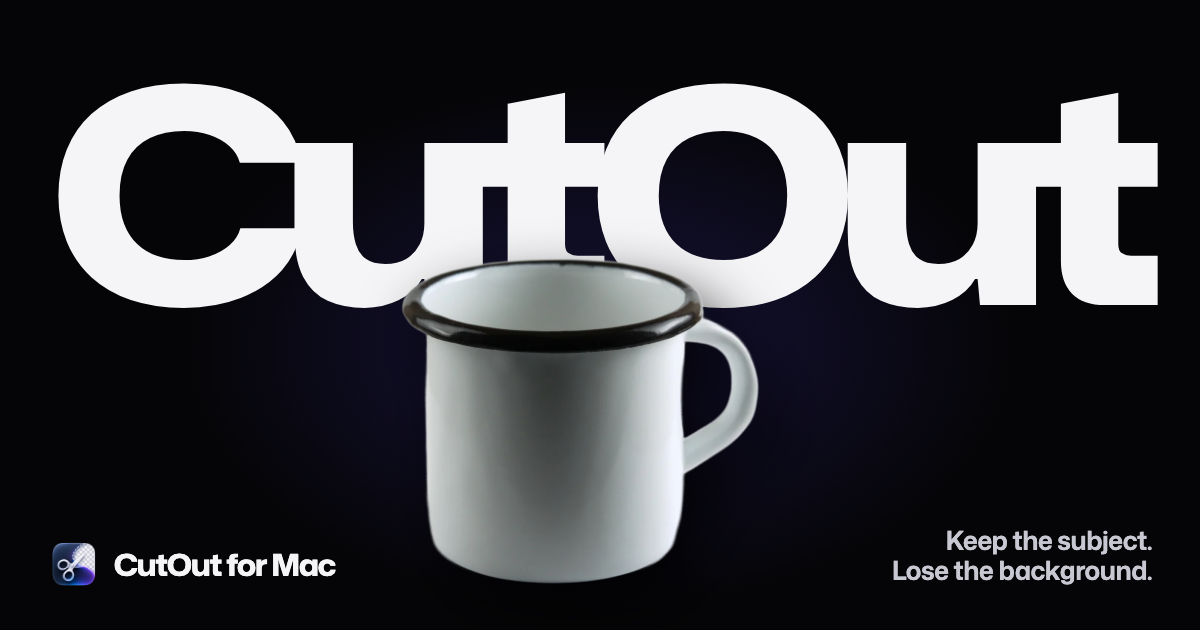
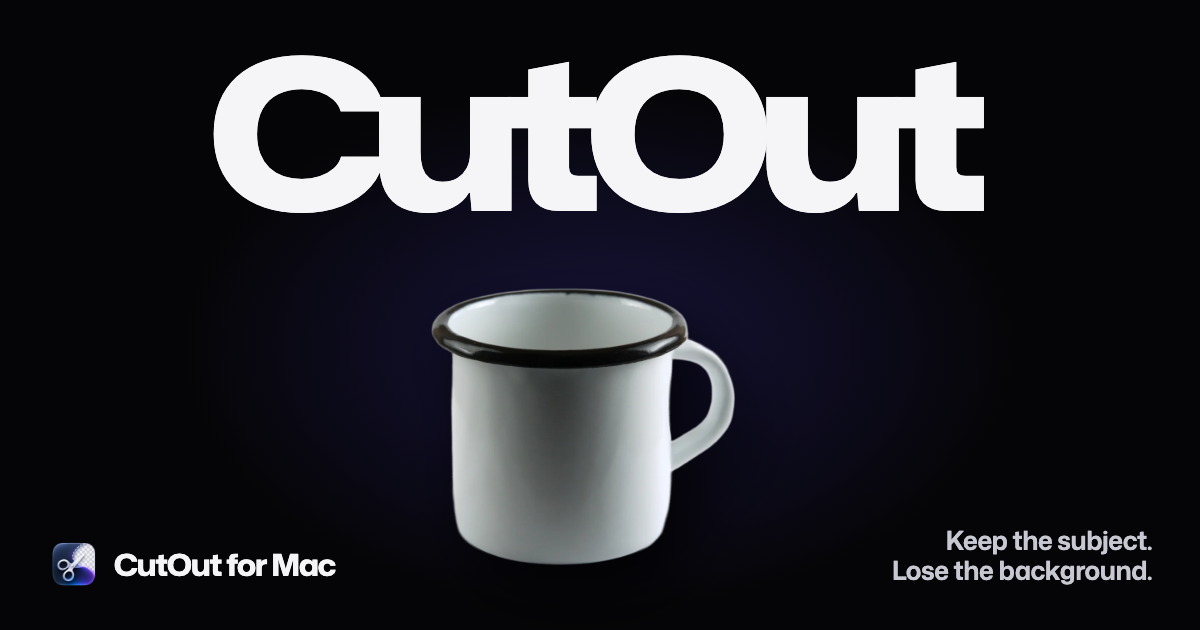
Hero: the CutOut wordmark on top, the mug animation below it
At the owner's request the giant wordmark no longer sits behind the mug. It
now stands alone at the top of the hero, solid white and sized to the content
column (at most 26svh). The photo frame takes the height that is left below
it. The tight tracking is optically re-centred. The share image uses the same
layout, and the hero test now checks that the word sits fully above the
frame. wordAt/--word-y are gone from the asset script.

Changed region(s): [[0.0308, 0.0905, 0.9867, 0.9349]]

diff --git a/tests/e2e/site.spec.ts b/tests/e2e/site.spec.ts
@@ -148,14 +148,18 @@ test.describe('before/after comparison', () => {
 });
 
 test.describe('hero', () => {
-  test('the wordmark sits between the photo and the cutout', async ({ page }) => {
+  test('the wordmark sits above the photo, fully visible and not overlapping it', async ({ page }) => {
     await page.goto('');
-    const z = await page.evaluate(() => {
-      const order = ['.hero__poster', '.hero__word', '.hero__subject'].map((s) => document.querySelector(s)!);
-      return order.map((el) => [...el.parentElement!.children].indexOf(el));
-    });
+    const word = (await page.locator('.hero__word').boundingBox())!;
+    const stage = (await page.locator('[data-stage]').boundingBox())!;
+    const vw = page.viewportSize()!.width;
+    expect(word.y + word.height).toBeLessThanOrEqual(stage.y + 1);
+    expect(word.y).toBeGreaterThanOrEqual(0);
+    expect(word.x).toBeGreaterThanOrEqual(0);
+    expect(word.x + word.width).toBeLessThanOrEqual(vw);
+    // The cutout still sits in front of the photo inside the frame.
+    const z = await page.evaluate(() => ['.hero__poster', '.hero__subject'].map((s) => { const el = document.querySelector(s)!; return [...el.parentElement!.children].indexOf(el); }));
     expect(z[0]).toBeLessThan(z[1]);
-    expect(z[1]).toBeLessThan(z[2]);
   });
 
   test('the primary call to action is visible in the first viewport', async ({ page }) => {

diff --git a/docs/DESIGN.md b/docs/DESIGN.md
@@ -35,6 +35,10 @@ now appears only as the *Gaps* sample. The golden retriever puppy leads the resu
 is a puppy lying on a plain carpet, chosen so that every leg is visible: the first choice stood
 in grass that hid part of a hind leg.
 
+**Revision, 5 November 2026.** The owner liked the wordmark but not having it behind the mug.
+The giant **CutOut** now stands alone at the top of the hero, solid white with no blend, and the
+mug animation plays in the frame below it. The same wordmark leads the share image.
+
 ## Art direction
 
 * **A black stage, one subject at a time.** Near-black (`--bg`) everywhere, so cutouts float and
@@ -52,7 +56,7 @@ in grass that hid part of a hind leg.
 
 | Section | What happens | Scroll length |
 |---|---|---|
-| Hero | Mug photo on the stage. The wordmark sits behind the mug, which covers only the lower part of the letters, so *CutOut* stays readable (difference blend). Scroll: marching ants trace the outline (outer edge plus the handle's hole), the subject lifts with a shadow, the print curls back from its corner (white paper underside) and is pulled off the screen, leaving the subject on the transparency grid. | 300 svh (240 on phones) |
+| Hero | The giant **CutOut** wordmark at the top, as wide as the content column (at most a quarter of the screen height). The mug photo sits in a frame below it. Scroll: marching ants trace the outline (outer edge plus the handle's hole), the subject lifts with a shadow, the print curls back from its corner (white paper underside) and is pulled off the screen, leaving the subject on the transparency grid. | 300 svh (240 on phones) |
 | Results (`#compare`) | *Every hair. Every thread.* A before/after slider with four real samples (Fur: golden retriever puppy; Threads: hex bolts; Gaps: the crankset; Seeds: a dandelion), four backdrops and a zoom. | normal |
 | Keys | *Paste. Remove. Copy.* pinned; a ⌘ key with the letter rolling V → B → C, the bolt photo dissolving into its cutout, then shrinking away with a "Copied" toast. | 330 svh (300) |
 | The app (`#app`) | A genuine CutOut window rises and tilts upright, then swaps from the simple view to the full tool panel. | 260 svh (220) |
@@ -129,8 +133,8 @@ The Guide, privacy and 404 pages use the same tokens through compatibility alias
 ### Responsive behaviour
 
 * **Phones:** the hero keeps the photo's square shape so the whole mug stays visible. The
-  wordmark sits behind the rim at 22vw, and the headline and a full-width button sit at the
+  wordmark spans the screen width above it, and the headline and a full-width button sit at the
   bottom. The slider frame is 4:5. The key sequence puts the image above the words.
-* **Tablets and up:** two-column scenes from 820 px. The hero frame grows to 1200 px.
+* **Tablets and up:** two-column scenes from 820 px. The hero frame grows to 1100 px.
 * Touch: every control is at least 44 px. The slider takes horizontal drags while vertical swipes
   still scroll.

diff --git a/docs/ARCHITECTURE.md b/docs/ARCHITECTURE.md
@@ -60,19 +60,19 @@ intercepted, and with reduced motion every value is 1.
 
 ## The hero
 
-Layers, bottom to top, all aligned to one photo frame (`.hero__stage`):
+The sticky pin is a column: the wordmark `p.hero__word` (solid, `font-size: var(--wf)`, the
+content width ÷ 3.7 capped at 26svh), then the photo frame `.hero__stage`, whose width is
+computed from the height that is left. The headline and button sit along the bottom edge. Frame
+layers, bottom to top:
 
 | Layer | What it is |
 |---|---|
 | `canvas.hero__gl` | WebGL 2, **full viewport**: the transparency grid inside the frame and the photo as a print with a hole where CutOut's matte says the subject is. The canvas is as large as the viewport so the print can be pulled right off the screen. |
 | `picture.hero__poster` | The same photo as an `<img>`: the LCP element, the first frame, and the no-WebGL / reduced-motion view. |
 | `img.hero__shadow` | A blurred copy of the matte, shown as the subject lifts. |
-| `p.hero__word` | The giant wordmark with `mix-blend-mode: difference`: dark where it crosses the photo, light on the black stage. |
-| `picture.hero__subject` | CutOut's actual cutout of the photo. It sits above the word, so the part is in front of the wordmark and the background behind it. |
+| `picture.hero__subject` | CutOut's actual cutout of the photo, above the poster and the canvas. |
 | `svg.hero__line` | The cut, drawn as marching ants along the outline traced from the matte. |
 
-The blend only reaches layers in the same stacking context, so `.hero__stage` deliberately has no
-`transform`, `filter` or `opacity`.
 
 * `hero.ts` picks the mode, adds pointer parallax (fine pointers), and loads `hero-gl.ts`
   (separate chunk, 3.7 KiB gzip) on the visitor's first scroll, wheel, pointer, key or touch,

diff --git a/docs/TESTING.md b/docs/TESTING.md
@@ -29,7 +29,8 @@ What the browser tests cover:
   links to the private app repository.
 * **Before/after slider:** keyboard (arrows, Shift, Home/End, spoken values), pointer drag,
   sample tabs and backdrop radios.
-* **Hero:** the wordmark sits between the photo and the cutout in the DOM, and the primary button
+* **Hero:** the wordmark sits above the photo frame without overlapping it, fully on screen, and
+  the cutout is in front of the photo. The primary button
   is fully inside the first viewport. Under reduced motion the static mode's *Remove background*
   button works. Scrolling through the scene drives `--cut`, `--lift` and `--peel` past 0.95, and
   the no-WebGL fallback works.
@@ -93,9 +94,8 @@ inspected. Fixed during the version 2 review:
     blur buffer; it is now a single extracted channel, with an assertion.
   * A translucent print mid-peel. The canvas now covers the viewport, and the print is pulled off
     screen.
-  * The wordmark hidden behind the subject. Its height is now set from the subject's top edge
-    (`wordAt`). For the mug, the word sits just above the rim, so the mug covers only the lower
-    part of the letters.
+  * The wordmark hidden behind the subject. At the owner's request it now stands alone above the
+    frame (5 November 2026).
   * The phone crop hiding the wordmark. Phones now keep the photo's own shape.
   * A dotted crack along the print's diagonal, which appeared only with a square photo (the mug).
     `fwidth()` of the frame's distance field is exactly 0 on its ridge, and `smoothstep` with equal

diff --git a/docs/MAINTENANCE.md b/docs/MAINTENANCE.md
@@ -48,10 +48,9 @@ showing the golden retriever photo. To refresh them without changing any app cod
 4. `npm run assets && npm run build`.
 
 **The hero** is set by `HERO` in `scripts/prepare-assets.mjs`: `id` (a file pair in
-`design/sources/`), `alt`, `widths`, and `wordAt`. `wordAt` is how far down the subject's bounding
-box the wordmark's centre sits. It is −0.05 for the mug, putting the centre just above the rim so
-the mug covers only the lower part of the letters and the word stays readable. The script writes the photo, the cutout, the shadow, the traced outline (outer edge
-plus holes) and `hero.css` (`--ar`, `--word-y`). The hero should be a non-living object with a
+`design/sources/`), `alt` and `widths`. The wordmark sits above the photo frame, so it doesn't
+depend on the photo. The script writes the photo, the cutout, the shadow, the traced outline (outer edge
+plus holes) and `hero.css` (`--ar`). The hero should be a non-living object with a
 clear silhouette, ideally with a hole or gap, photographed on a plain background. After changing
 it, run `node scripts/make-og.mjs`, check desktop and phone screenshots (`scripts/shoot-page.mjs`)
 before and after the peel, and update the alt text in `src/components/Hero.astro`.
